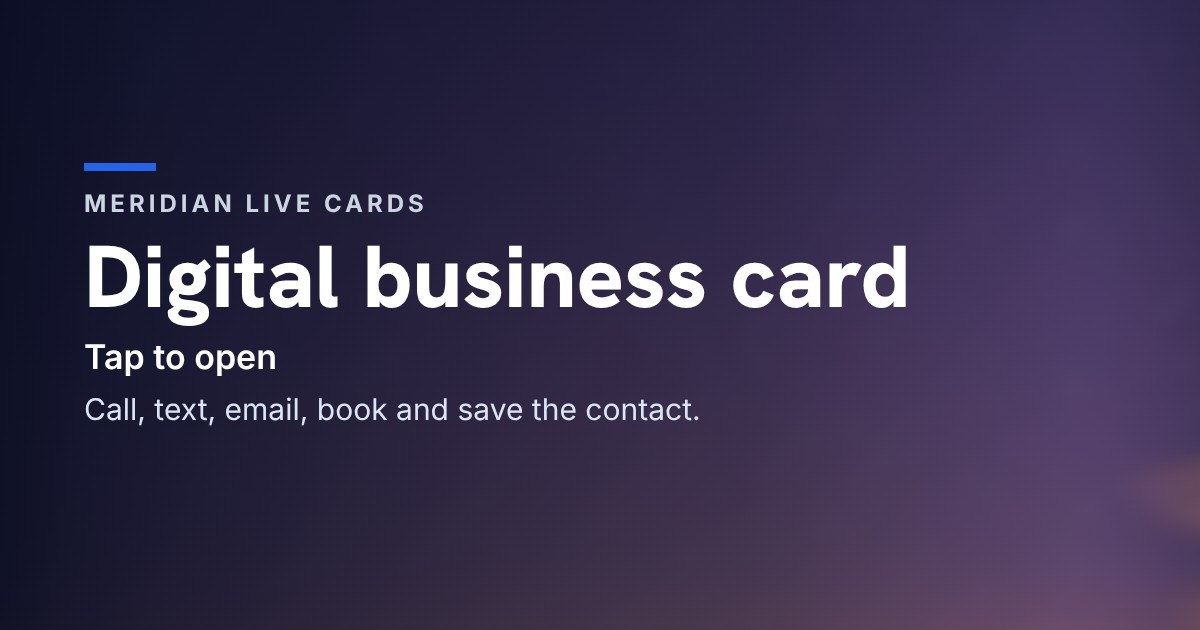
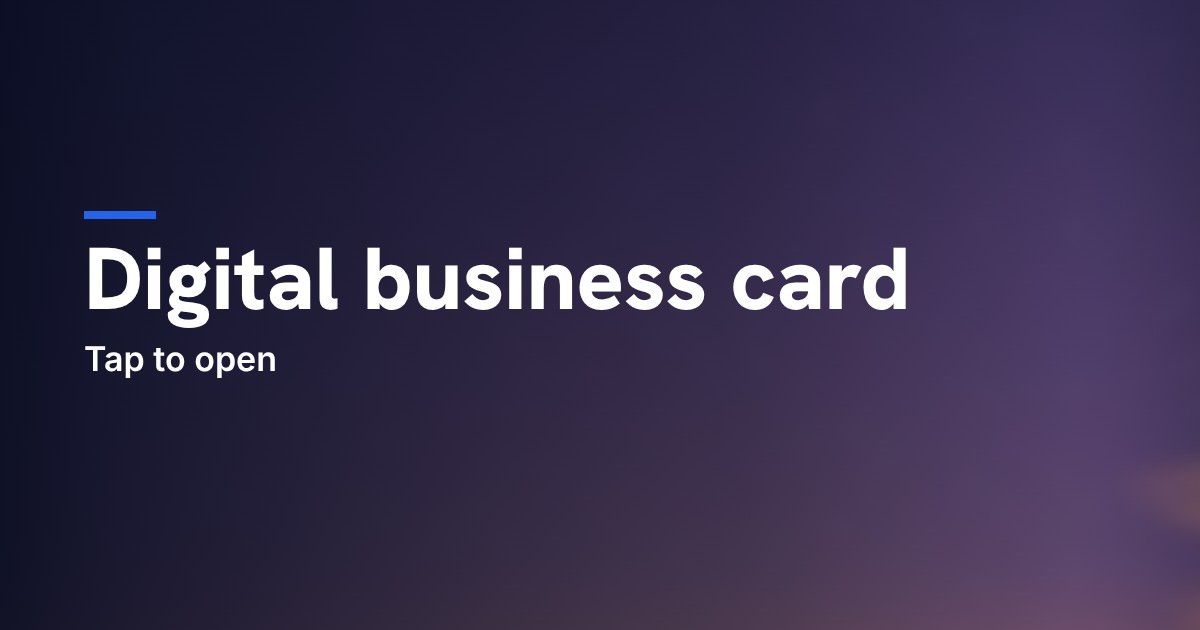
Live Cards: say everything once (clarity pass on the landing page, Studio and link preview)
- Landing page: each selling point appears once; shorter steps and trust lines
- Business name is typed once and stands in for the logo when there is none (the two logo text boxes are gone)
- Share tab lists only what is still missing; home screen steps only for the phone in hand
- Button color sits with the booking button; headshot and background uploads have distinct names
- Background hints say what to do in one line; link preview picture no longer repeats the business name
- Card: six round buttons and the pay row each stay on one row at 360 px
- preview test now 70 checks

Claude-Session: https://claude.ai/code/session_01Y6s8csMvrwVTtzrnppUzqx

diff --git a/public/studio/index.html b/public/studio/index.html
@@ -24,16 +24,14 @@
       <label>Business name<input type="text" id="f-company" data-k="company" maxlength="60" autocomplete="organization" placeholder="Rivers Realty"></label>
       <label>Title<input type="text" id="f-role" data-k="role" maxlength="60" autocomplete="organization-title" placeholder="Realtor"></label>
       <label>One line about what you do<input type="text" id="f-tagline" data-k="tagline" maxlength="90" placeholder="Homes in Katy and West Houston"></label>
-      <fieldset><legend>Your photo</legend>
+      <fieldset><legend>Photo of you</legend>
         <div class="row face-row"><img class="face-pv" id="face-pv" alt="" width="64" height="64" hidden><label class="ghost" for="f-photo"><svg class="i" viewBox="0 0 24 24" aria-hidden="true"><path d="M4 16v3a1 1 0 0 0 1 1h14a1 1 0 0 0 1-1v-3M16 8l-4-4-4 4M12 4v12"/></svg><span id="photo-word">Add your photo</span><input class="vh" type="file" id="f-photo" accept="image/*"></label><button type="button" class="ghost" id="photo-clear" aria-label="Remove photo" hidden>Remove</button></div>
-        <p class="note">People remember a face. Pick a clear photo with your face near the middle; it shows in a circle.</p>
+        <p class="note">A clear photo of your face. It shows in a circle.</p>
       </fieldset>
       <fieldset><legend>Logo</legend>
         <div class="row"><label class="ghost" for="f-logo"><svg class="i" viewBox="0 0 24 24" aria-hidden="true"><path d="M4 16v3a1 1 0 0 0 1 1h14a1 1 0 0 0 1-1v-3M16 8l-4-4-4 4M12 4v12"/></svg>Upload a logo<input class="vh" type="file" id="f-logo" accept="image/*"></label><button type="button" class="ghost" id="logo-clear" hidden>Remove logo</button></div>
-        <p class="note">Or type your business name below and it is set as a wordmark.</p>
-        <div class="row two"><label>Logo text, line 1<input type="text" id="f-l1" data-k="logo.line1" maxlength="24" placeholder="RIVERS"></label><label>Line 2<input type="text" id="f-l2" data-k="logo.line2" maxlength="24" placeholder="REALTY"></label></div>
+        <p class="note">No logo? Your business name is shown in its place.</p>
       </fieldset>
-      <fieldset><legend>Button color</legend><div class="swatches" id="swatches"></div><p class="note">Colors your booking button.</p></fieldset>
     </div>
     <div class="pane" role="tabpanel" id="p-buttons" aria-labelledby="t-buttons" hidden>
       <div class="pane-h"><h2>Buttons</h2><p>How people reach you. Leave a box empty and that button stays off your card.</p></div>
@@ -45,6 +43,7 @@
       <fieldset><legend>Booking</legend>
       <label>Booking link<input type="url" id="f-booking" data-k="actions.booking" maxlength="500" placeholder="https://calendly.com/you"></label>
       <label>Booking button words<input type="text" id="f-blabel" data-k="actions.bookingLabel" maxlength="34" placeholder="Book an appointment"></label>
+      <div class="lab" role="group" aria-labelledby="sw-l"><span id="sw-l">Booking button color</span><div class="swatches" id="swatches"></div></div>
       </fieldset>
       <fieldset><legend>Location and hours</legend>
       <label>Address<input type="text" id="f-addr" data-k="actions.address" maxlength="140" autocomplete="street-address" placeholder="123 Main St, Katy, TX 77494"></label>
@@ -61,30 +60,30 @@
       </fieldset>
       <fieldset><legend>Reviews</legend>
       <label>Review link<input type="url" id="f-review" data-k="actions.review" maxlength="500" placeholder="g.page/r/yourbusiness/review"></label>
-      <p class="note">Paste the link where customers leave you a review, such as your Google review link. It adds a "Leave a review" button.</p>
+      <p class="note">Paste the link where customers review you, such as your Google review link.</p>
       </fieldset>
       <fieldset><legend>Get paid</legend>
       <label>Cash App name<input type="text" id="f-cash" data-k="actions.cashapp" maxlength="60" autocapitalize="none" autocomplete="off" spellcheck="false" placeholder="$yourname"></label>
       <label>Venmo name<input type="text" id="f-venmo" data-k="actions.venmo" maxlength="60" autocapitalize="none" autocomplete="off" spellcheck="false" placeholder="@yourname"></label>
       <label>Zelle phone or email<input type="text" id="f-zelle" data-k="actions.zelle" maxlength="200" autocapitalize="none" autocomplete="off" spellcheck="false" placeholder="you@yourbusiness.com"></label>
-      <p class="note">Each one adds a "Pay with" button. The payment happens in that app, never on your card.</p>
+      <p class="note">People pay you in that app, never on your card.</p>
       </fieldset>
     </div>
     <div class="pane" role="tabpanel" id="p-bg" aria-labelledby="t-bg" hidden>
-      <div class="pane-h"><h2>Background</h2><p>What moves behind your card. Tap one to try it.</p></div>
-      <fieldset><legend>Your own photo or video</legend>
+      <div class="pane-h"><h2>Background</h2><p>Use your own photo or video, or tap a live background to try it.</p></div>
+      <fieldset><legend>Your own background</legend>
         <label class="drop" for="f-bg"><svg class="i" viewBox="0 0 24 24" aria-hidden="true"><path d="M4 16v3a1 1 0 0 0 1 1h14a1 1 0 0 0 1-1v-3M16 8l-4-4-4 4M12 4v12"/></svg><b>Choose from your library</b><span>A photo, or a video up to 30 seconds and 25 MB</span><input class="vh" type="file" id="f-bg" accept="image/*,video/*"></label>
         <div class="seg" id="own-opts" hidden><button type="button" id="fit-fill" aria-pressed="true">Fill the card</button><button type="button" id="fit-band" aria-pressed="false">Bottom of the card</button><label class="check switch"><input type="checkbox" id="f-sound" checked> Sound button</label></div>
-        <p class="note" id="bg-note" aria-live="polite">Photos are resized on your device before anything is saved.</p>
+        <p class="note" id="bg-note" aria-live="polite"></p>
       </fieldset>
       <fieldset><legend>Live backgrounds</legend><div id="scenes"></div></fieldset>
     </div>
     <div class="pane" role="tabpanel" id="p-publish" aria-labelledby="t-publish" hidden>
       <div class="pane-h"><h2>Share</h2><p>Publish your card and send it with one link or a QR code.</p></div>
-      <ul class="ready" id="ready" aria-label="Before you share"></ul>
+      <div class="todo" id="todo" hidden><h3>Before you share</h3><ul class="ready" id="ready"></ul></div>
       <figure class="linkpv" id="linkpv"><figcaption>How your link looks in a text or a post</figcaption>
         <div class="bubble"><canvas id="pv-img" width="1200" height="630" role="img" aria-label="The picture people see with your link"></canvas><div class="meta"><b id="pv-title"></b><span id="pv-site"></span></div></div></figure>
-      <div id="pub-off" class="callout" hidden><h3>Sharing is being set up</h3><p>Your card is saved on this device and you can keep editing it. Public links switch on when Live Cards launches.</p></div>
+      <div id="pub-off" class="callout" hidden><h3>Sharing is being set up</h3><p>Public links switch on when Live Cards launches. Until then, keep building your card here.</p></div>
       <form id="pub-email" hidden><h3>Sign in to share your card</h3><label>Email<input type="email" id="f-acct" autocomplete="email" required placeholder="you@yourbusiness.com"></label><div id="human" hidden></div><button class="btn" type="submit">Email me a sign-in code</button></form>
       <form id="pub-code" hidden><h3>Enter the code we emailed you</h3><label>6-digit code<input type="text" id="f-code" inputmode="numeric" autocomplete="one-time-code" maxlength="8" required></label><div class="row"><button class="btn" type="submit">Sign in</button><button type="button" class="ghost" id="code-back">Use a different email</button></div></form>
       <form id="pub-go" hidden><h3>Your card's link</h3><label><span id="site-prefix">meridianinterface.com/c/</span><input type="text" id="f-slug" maxlength="40" autocapitalize="none" autocomplete="off" spellcheck="false" required placeholder="jordan-rivers"></label>
@@ -95,7 +94,7 @@
       <div id="plan" hidden><h3>Your plan</h3><p class="note" id="plan-note"></p><label class="check" id="plan-made" hidden><input type="checkbox" id="f-made"> Hide the "Made with Meridian Live Cards" line on my card</label>
         <div class="row"><button type="button" class="ghost" id="plan-up" hidden>Upgrade my plan</button><button type="button" class="ghost" id="plan-manage" hidden>Manage my plan</button></div></div>
       <div id="acct" hidden><p class="note" id="acct-who"></p><div class="row"><button type="button" class="ghost" id="acct-out">Sign out</button><button type="button" class="ghost danger" id="acct-del">Delete my account and card</button></div></div>
-      <div class="install" id="install"><h3>Put it on your home screen</h3><p id="install-how">On iPhone: tap the Share button, then "Add to Home Screen". On Android: open the browser menu, then "Install app".</p><button type="button" class="ghost" id="install-btn" hidden>Install the app</button></div>
+      <div class="install" id="install"><h3>Put it on your home screen</h3><p id="install-how"></p><button type="button" class="ghost" id="install-btn" hidden>Install the app</button></div>
       <p class="note legal"><a href="/live-cards/terms/">Terms</a> and <a href="/live-cards/privacy/">Privacy</a></p>
     </div>
   </section>

diff --git a/public/live/studio.js b/public/live/studio.js
@@ -43,9 +43,11 @@ $('f-sound').addEventListener('change',e=>{draft.data.background.sound=e.target.
 const filesOf=d=>d?[d.background&&d.background.url,d.logo&&d.logo.url,d.photo&&d.photo.url,d.preview&&d.preview.url]:[];
 const cardLink=()=>(A.config.site||location.origin)+'/c/'+draft.slug;let pendingEmail='';
 function dirtyView(){const d=!!(draft.published&&draft.dirty);$('pub-update').hidden=!d;$('pub-dirty').hidden=!d}
+// Only what is still missing is listed. Nothing missing, nothing shown.
 function readyView(){const d=draft.data,a=d.actions||{},ul=$('ready');ul.textContent='';
-  const rows=[[!!(d.name||'').trim(),'Your name','t-details'],[!!(a.phone||a.email||a.booking||a.website),'At least one way to reach you','t-buttons'],[!!(draft.photoBlob||(d.photo||{}).url),'Your photo (optional)','t-details'],[!!(draft.logoBlob||d.logo.url||(d.logo.line1||'').trim()),'A logo or business name (optional)','t-details']];
-  for(const [ok,label,tab] of rows){const li=document.createElement('li'),b=document.createElement('button');li.dataset.ok=String(ok);b.type='button';b.textContent=label;b.addEventListener('click',()=>$(tab).click());li.appendChild(b);ul.appendChild(li)}}
+  const rows=[[!!(d.name||'').trim(),'Add your name','t-details'],[!!(a.phone||a.email||a.booking||a.website),'Add at least one way to reach you','t-buttons']].filter(r=>!r[0]);
+  for(const [,label,tab] of rows){const li=document.createElement('li'),b=document.createElement('button');li.dataset.ok='false';b.type='button';b.textContent=label;b.addEventListener('click',()=>$(tab).click());li.appendChild(b);ul.appendChild(li)}
+  $('todo').hidden=!rows.length}
 // ---------- link preview: the picture and title people see when the card's link is texted or posted.
 // Drawn here, on the device, from the same details as the card, and saved next to the card when it is published.
 const loadImg=src=>new Promise(res=>{if(!src)return res(null);const im=new Image();if(/^https:/.test(src))im.crossOrigin='anonymous';im.onload=()=>res(im);im.onerror=()=>res(null);im.src=src});
@@ -62,12 +64,11 @@ let pvRun=0;async function drawPreview(cv,solo){const run=solo?0:++pvRun,c=V.nor
   let g=x.createLinearGradient(0,0,W,0);g.addColorStop(0,'rgba(6,11,30,.9)');g.addColorStop(.62,'rgba(6,11,30,.62)');g.addColorStop(1,'rgba(6,11,30,.3)');x.fillStyle=g;x.fillRect(0,0,W,H);
   let left=84;if(face){const r=128,cx=left+r,cy=H/2;x.save();x.beginPath();x.arc(cx,cy,r+6,0,7);x.fillStyle='#fff';x.shadowColor='rgba(0,0,0,.5)';x.shadowBlur=40;x.shadowOffsetY=14;x.fill();x.restore();
     x.save();x.beginPath();x.arc(cx,cy,r,0,7);x.clip();cover(x,face,cx-r,cy-r,r*2,r*2);x.restore();left+=r*2+60}
-  const max=W-left-84,eyebrow=(c.company||[c.logo.line1,c.logo.line2].filter(Boolean).join(' ')).toUpperCase();
+  const max=W-left-84;
   let size=88;x.font='800 '+size+'px '+D;while(size>56&&x.measureText(c.name).width>max){size-=4;x.font='800 '+size+'px '+D}const nameL=lines(x,c.name,max,2);
   x.font='400 30px '+B;const tagL=c.tagline?lines(x,c.tagline,max,2):[];
-  const hgt=(eyebrow?46:0)+nameL.length*size*1.06+(c.role?54:0)+tagL.length*40+(tagL.length?10:0);let y=Math.round((H-hgt)/2);
+  const hgt=nameL.length*size*1.06+(c.role?54:0)+tagL.length*40+(tagL.length?10:0);let y=Math.round((H-hgt)/2);
   x.textBaseline='top';x.fillStyle=c.accent;x.fillRect(left,y-30,72,8);
-  if(eyebrow){x.font='700 24px '+B;try{x.letterSpacing='4px'}catch(e){}x.fillStyle='#cbd5e1';x.fillText(lines(x,eyebrow,max,1)[0],left,y);try{x.letterSpacing='0px'}catch(e){}y+=46}
   x.fillStyle='#fff';x.font='800 '+size+'px '+D;for(const l of nameL){x.fillText(l,left,y);y+=size*1.06}
   if(c.role){x.font='600 34px '+B;x.fillText(lines(x,c.role,max,1)[0],left,y+10);y+=54}
   if(tagL.length){y+=10;x.font='400 30px '+B;x.fillStyle='#dbe5f5';for(const l of tagL){x.fillText(l,left,y);y+=40}}
@@ -125,10 +126,12 @@ if(humanOn){$('human').hidden=false;const s=document.createElement('script');s.s
   s.onload=()=>{try{humanId=window.turnstile.render($('human'),{sitekey:A.config.humanCheck,callback:t=>{humanToken=t},'expired-callback':()=>{humanToken=''},'error-callback':()=>{humanToken=''}})}catch(e){$('human').textContent='The human check could not start. Reload the page.'}};
   s.onerror=()=>{$('human').textContent='The human check could not load. Check your connection and reload.'};document.head.appendChild(s)}
 // ---------- install
-let installEvt=null;window.addEventListener('beforeinstallprompt',e=>{e.preventDefault();installEvt=e;$('install-btn').hidden=false;$('install-how').hidden=true});
+let installEvt=null;window.addEventListener('beforeinstallprompt',e=>{e.preventDefault();installEvt=e;$('install').hidden=false;$('install-btn').hidden=false;$('install-how').hidden=true});
 $('install-btn').addEventListener('click',async()=>{if(!installEvt)return;installEvt.prompt();await installEvt.userChoice.catch(()=>{});installEvt=null;$('install-btn').hidden=true});
-if(window.matchMedia('(display-mode: standalone)').matches||navigator.standalone)$('install').hidden=true;
+{const ua=navigator.userAgent,ios=/iPhone|iPad|iPod/.test(ua)||(navigator.platform==='MacIntel'&&navigator.maxTouchPoints>1),android=/Android/.test(ua);
+  $('install-how').textContent=ios?'Tap the Share button in your browser, then "Add to Home Screen".':android?'Open the browser menu, then tap "Install app".':'';
+  if((!ios&&!android)||window.matchMedia('(display-mode: standalone)').matches||navigator.standalone)$('install').hidden=true}
 if('serviceWorker' in navigator&&location.protocol==='https:')navigator.serviceWorker.register('/studio/sw.js').catch(()=>{});
 // ---------- start
-A.local.get('draft').then(async d=>{if(d&&d.data){draft=Object.assign(draft,d);draft.data.logo=draft.data.logo||{};draft.data.actions=draft.data.actions||{};draft.data.background=draft.data.background||{type:'scene',id:'ocean'};draft.data.photo=draft.data.photo||{url:''};draft.data.preview=draft.data.preview||{url:''}}fill();paint();if(A.enabled&&A.auth.user)await adopt()});
+A.local.get('draft').then(async d=>{if(d&&d.data){draft=Object.assign(draft,d);draft.data.logo=draft.data.logo||{};draft.data.actions=draft.data.actions||{};draft.data.background=draft.data.background||{type:'scene',id:'ocean'};draft.data.photo=draft.data.photo||{url:''};draft.data.preview=draft.data.preview||{url:''};{const l=draft.data.logo;if(!l.mark&&(l.line1||l.line2)){if(!draft.data.company)draft.data.company=[l.line1,l.line2].filter(Boolean).join(' ');l.line1=l.line2=''}}}fill();paint();if(A.enabled&&A.auth.user)await adopt()});
 })();

diff --git a/public/live/engine.js b/public/live/engine.js
@@ -543,20 +543,20 @@ function init(phone){
     GL.uniform3f(glU.uPtr,P.x,P.y,P.on);GL.uniform3fv(glU.uTap,taps);GL.drawArrays(GL.TRIANGLES,0,3)}
   // Theme list for the picker
   const THEMES=[
-    ...(glOK?[{col:'Signature',id:'ocean',name:'Ocean sunrise',gl:1,draw:(t,n)=>drawOcean(t,n),start:()=>{oceanStart=performance.now()},tap:n=>{if(P.ty<.795)glFlare=n},hint:'This one is computed pixel by pixel on your device: real-looking water, clouds and light. The sun rises over the sea in about 20 seconds. Move your finger to look around; tap the water for ripples or the sky for a flash of sunlight.'}]:[]),
-    {col:'Nature and outdoors',id:'sunrise',name:'Sunrise',canvas:1,draw:(t,n)=>drawSunrise(t,n),start:()=>{sunStart=performance.now()},hint:'The sun rises over misty mountains and a lake. Move your finger and the scene shifts; tap the sky for a burst of sunlight or the water for a ripple. Tap Sunrise to watch it again.'},
-    {col:'Nature and outdoors',id:'bike',name:'Mountain bike',canvas:1,draw:(t,n)=>drawBike(t,n),hint:'A rider pedals a ridge trail against a huge setting sun, kicking up dust. Tap the background to make them jump.'},
-    {col:'Water',id:'sail',name:'Sailing',canvas:1,draw:(t,n)=>drawSail(t,n),hint:'A sailboat rides the swell at golden hour while the sun sparkles on the water. Move your finger and the waves lift toward it; tap the sea for a ripple.'},
-    {col:'Water',id:'ski',name:'Jet ski',canvas:1,draw:(t,n)=>drawSki(t,n),hint:'A jet ski skims a turquoise bay past a palm island, throwing spray. The waves lift toward your finger; tap to make it jump.'},
-    {col:'Sky and space',id:'rocket',name:'Rocket launch',canvas:1,draw:(t,n)=>drawRocket(t,n),start:rocketStart,tap:rocketTap,hint:'Steam builds on the pad, the engines light, and the rocket climbs right through the card. It repeats on its own. Tap the background to launch early.'},
-    {col:'Sky and space',id:'jets',name:'Jets',canvas:1,draw:(t,n)=>drawJets(t,n),start:()=>{jetT0=performance.now()-600;jetExtra=-1e9},tap:n=>{jetExtra=n},hint:'A formation of jets climbs across the sky leaving white trails. Tap to call a second pass from the other side.'},
-    {col:'Motorsport',id:'drag',name:'Drag race',canvas:1,draw:(t,n)=>drawDrag(t,n),start:dragStart,tap:dragTap,hint:'The lights count down, then two cars launch off the line in a cloud of tire smoke. It repeats on its own. Tap to drop the green light early.'},
-    {col:'Motorsport',id:'ride',name:'Night ride',canvas:1,draw:(t,n)=>drawRide(t,n),hint:'A motorcycle leans through a winding road at dusk. Move your finger left or right and the rider leans with you.'},
-    {col:'Snow and mountain',id:'snow',name:'Snowboarding',canvas:1,draw:(t,n)=>drawSnow(t,n),hint:'A snowboarder carves down a sunny slope with powder spraying and snow falling. Tap to make them jump and spin.'},
-    {col:'Spirit',id:'aurora',name:'Aurora',canvas:1,draw:(t,n)=>drawAurora(t,n),hint:'Northern lights drift over the mountains while a seated figure breathes with a slow glow. The lights brighten near your finger; tap to send out a ring of light.'},
-    {col:'Fun and party',id:'dance',name:'Dance party',canvas:1,draw:(t,n)=>drawDance(t,n),hint:'Stage lights sweep to the beat over a glowing floor and a crowd with their hands up. The lights lean toward your finger; tap for a confetti burst.'},
-    {col:'Fun and party',id:'fire',name:'Fireworks',canvas:1,draw:(t,n)=>drawFire(t,n),hint:'Fireworks rise and burst over a city skyline. Tap anywhere to set one off right under your finger.'},
-    {col:'Classic',id:'ribbon',name:'Blue ribbon',canvas:1,draw:t=>drawRibbon(t),hint:'The waves drift on their own. Move your mouse or finger over the card and they rise toward you; tap the background to send a ripple.'}];
+    ...(glOK?[{col:'Signature',id:'ocean',name:'Ocean sunrise',gl:1,draw:(t,n)=>drawOcean(t,n),start:()=>{oceanStart=performance.now()},tap:n=>{if(P.ty<.795)glFlare=n},hint:'Move your finger to look around. Tap the water for ripples.'}]:[]),
+    {col:'Nature and outdoors',id:'sunrise',name:'Sunrise',canvas:1,draw:(t,n)=>drawSunrise(t,n),start:()=>{sunStart=performance.now()},hint:'Tap the sky for a burst of sunlight, or the water for a ripple.'},
+    {col:'Nature and outdoors',id:'bike',name:'Mountain bike',canvas:1,draw:(t,n)=>drawBike(t,n),hint:'Tap the background to make the rider jump.'},
+    {col:'Water',id:'sail',name:'Sailing',canvas:1,draw:(t,n)=>drawSail(t,n),hint:'The waves lift toward your finger. Tap the sea for a ripple.'},
+    {col:'Water',id:'ski',name:'Jet ski',canvas:1,draw:(t,n)=>drawSki(t,n),hint:'The waves lift toward your finger. Tap to make the jet ski jump.'},
+    {col:'Sky and space',id:'rocket',name:'Rocket launch',canvas:1,draw:(t,n)=>drawRocket(t,n),start:rocketStart,tap:rocketTap,hint:'Tap the background to launch the rocket early.'},
+    {col:'Sky and space',id:'jets',name:'Jets',canvas:1,draw:(t,n)=>drawJets(t,n),start:()=>{jetT0=performance.now()-600;jetExtra=-1e9},tap:n=>{jetExtra=n},hint:'Tap to call a second pass of jets.'},
+    {col:'Motorsport',id:'drag',name:'Drag race',canvas:1,draw:(t,n)=>drawDrag(t,n),start:dragStart,tap:dragTap,hint:'Tap to drop the green light early.'},
+    {col:'Motorsport',id:'ride',name:'Night ride',canvas:1,draw:(t,n)=>drawRide(t,n),hint:'Move your finger left or right and the rider leans with you.'},
+    {col:'Snow and mountain',id:'snow',name:'Snowboarding',canvas:1,draw:(t,n)=>drawSnow(t,n),hint:'Tap to make the snowboarder jump and spin.'},
+    {col:'Spirit',id:'aurora',name:'Aurora',canvas:1,draw:(t,n)=>drawAurora(t,n),hint:'The lights brighten near your finger. Tap to send out a ring of light.'},
+    {col:'Fun and party',id:'dance',name:'Dance party',canvas:1,draw:(t,n)=>drawDance(t,n),hint:'The lights lean toward your finger. Tap for confetti.'},
+    {col:'Fun and party',id:'fire',name:'Fireworks',canvas:1,draw:(t,n)=>drawFire(t,n),hint:'Tap anywhere to set off a firework.'},
+    {col:'Classic',id:'ribbon',name:'Blue ribbon',canvas:1,draw:t=>drawRibbon(t),hint:'Move over the card and the waves rise. Tap to send a ripple.'}];
   const THEME=Object.fromEntries(THEMES.map(x=>[x.id,x]));
   // Living photo: today's owned ribbon picture, with depth that follows the finger and a slow light passing along the lines.
   function drawPhoto(t){

diff --git a/public/live-cards/index.html b/public/live-cards/index.html
@@ -8,42 +8,40 @@
 <section class="hero">
   <div class="pitch">
     <h1>The business card that moves.</h1>
-    <p class="lede">A digital business card with a live background that reacts to touch. People open one link or scan one code, then call, email, book or follow you in a tap.</p>
+    <p class="lede">A digital business card with a live background. People open it from one link or QR code, with nothing to install, and reach you in one tap.</p>
     <div class="cta-row"><a class="btn" href="/studio/">Make your card<svg class="i" viewBox="0 0 24 24" aria-hidden="true"><path d="M5 12h14M13 6l6 6-6 6"/></svg></a><a class="ghost" href="/?book=web_design">Book a free 1-on-1</a></div>
-    <ul class="facts"><li><svg class="i" viewBox="0 0 24 24" aria-hidden="true"><path d="M20 6 9 17l-5-5"/></svg>Nothing for your clients to install</li><li><svg class="i" viewBox="0 0 24 24" aria-hidden="true"><path d="M20 6 9 17l-5-5"/></svg>Opens from a link or a QR code</li><li><svg class="i" viewBox="0 0 24 24" aria-hidden="true"><path d="M20 6 9 17l-5-5"/></svg>Fourteen live backgrounds, or your own photo or video</li></ul>
   </div>
   <div class="demo">
     <div class="device"><div class="lc-phone" id="lc"></div></div>
     <p class="hint" id="hint" aria-live="polite"></p>
     <h2 class="strip-h" id="pick-h">Try a background</h2>
     <div class="seg" id="seg" role="group" aria-labelledby="pick-h"></div>
-    <p class="sample">This is a working card. The sample shows Otis Williams of Meridian Interface; yours carries your name, logo, buttons and colors.</p>
+    <p class="sample">A working sample. Yours shows your own name, photo, logo and buttons.</p>
   </div>
 </section>
 <section class="band" aria-labelledby="how-h"><h2 id="how-h">Ready in three steps</h2>
   <ol class="steps">
-    <li><b>Add your details</b><span>Your name, title and logo, and the buttons you want: call, text, email, booking, website and social.</span></li>
-    <li><b>Choose a background</b><span>Pick a live scene from the collection, or use a photo or video from your phone.</span></li>
-    <li><b>Share one link</b><span>Send the link, show the QR code, or keep the card on your home screen for the next handshake.</span></li>
+    <li><b>Add your details</b><span>Your name, your photo and the buttons you want.</span></li>
+    <li><b>Choose a background</b><span>Pick one of fourteen live backgrounds.</span></li>
+    <li><b>Share it</b><span>Send your link or show your QR code.</span></li>
   </ol>
 </section>
 <section class="band" aria-labelledby="why-h"><h2 id="why-h">A card people remember</h2>
-  <div class="points">
-    <div><b>It moves</b><p>A sunrise over open water, a rocket launch, race day, northern lights. The background is alive the moment the card opens.</p></div>
-    <div><b>It reacts to touch</b><p>Waves lift toward a finger, fireworks pop where you tap, the rocket launches early. People remember a card they played with.</p></div>
-    <div><b>It can be your own video</b><p>Use your ad, your product or your storefront. It plays behind your card, with sound when a client taps the speaker.</p></div>
-    <div><b>It does the job</b><p>Call, text, email, book, directions, reviews and ways to pay, one tap each. Save to contacts adds you, and your photo, to their phone.</p></div>
+  <div class="points three">
+    <div><b>It reacts to touch</b><p>Waves lift toward a finger, fireworks pop where you tap, a rocket launches early. People remember a card they played with.</p></div>
+    <div><b>Your own video works too</b><p>Your ad, your product or your storefront plays behind your card, with sound when a client taps the speaker.</p></div>
+    <div><b>Every button is one tap</b><p>Call, text, email, book, directions, reviews and ways to pay. Save to contacts adds you, and your photo, to their phone.</p></div>
   </div>
 </section>
-<section class="band" aria-labelledby="trust-h"><h2 id="trust-h">Built with care for your information</h2>
+<section class="band" aria-labelledby="trust-h"><h2 id="trust-h">Your information stays yours</h2>
   <div class="points">
-    <div><b>Only you can change your card</b><p>You sign in with a one-time code sent to your email. There is no password to steal or forget.</p></div>
-    <div><b>No tracking on your card</b><p>Card pages load no advertising or analytics scripts. Your clients see your card and nothing else.</p></div>
-    <div><b>Your card shows what you choose</b><p>Nothing is public until you publish, and a card opens only for someone who has its link.</p></div>
-    <div><b>Leave whenever you like</b><p>Take your card offline or delete your account, your card and your files from the app at any time.</p></div>
+    <div><b>Only you can change your card</b><p>You sign in with a code sent to your email. There is no password to steal or forget.</p></div>
+    <div><b>No ads and no tracking</b><p>Your clients see your card and nothing else.</p></div>
+    <div><b>Private until you publish</b><p>After that, your card opens only for someone who has its link.</p></div>
+    <div><b>Leave whenever you like</b><p>Take your card offline or delete everything, from the app, at any time.</p></div>
   </div>
 </section>
-<section class="close" aria-labelledby="close-h"><h2 id="close-h">Make yours in a few minutes</h2><p class="lede">Open the Studio on your phone, add your details, pick a background and share your link. Or book a free 1-on-1 and we will build it with you.</p>
+<section class="close" aria-labelledby="close-h"><h2 id="close-h">Make yours in a few minutes</h2><p class="lede">Or book a free 1-on-1 and we will build it with you.</p>
   <div class="cta-row"><a class="btn" href="/studio/">Open the Studio<svg class="i" viewBox="0 0 24 24" aria-hidden="true"><path d="M5 12h14M13 6l6 6-6 6"/></svg></a><a class="ghost" href="/?book=web_design">Book a free 1-on-1</a></div>
   <p class="reach"><a href="tel:+12818829198">281-882-9198</a> &nbsp;·&nbsp; <a href="mailto:otis@meridianinterface.com">otis@meridianinterface.com</a></p></section>
 </main>

diff --git a/public/live/card.css b/public/live/card.css
@@ -37,6 +37,9 @@
 .has-face .lc-name{margin-top:clamp(12px,4.2cqw,18px)}
 .lc-hours{margin-top:8px;display:inline-flex;align-items:center;gap:6px;font:500 clamp(12px,3.4cqw,13.5px)/1.3 var(--lc-body);color:#dbe5f5}
 .lc-hours svg{flex:none;width:14px;height:14px;stroke:currentColor}
+.lc-logo b,.lc-logo span{text-transform:uppercase;max-width:88cqw;overflow-wrap:anywhere}
+.lc-logo.long b{font-size:clamp(12px,3.7cqw,15px);letter-spacing:.14em;padding-left:.14em}
+.lc-logo.long span{letter-spacing:.2em;padding-left:.2em}
 .lc-logo b,.lc-logo span,.lc-name,.lc-role,.lc-tag,.lc-hours,.lc-pay-l,.lc-note{text-shadow:0 2px 14px rgba(0,0,0,.55)}
 .lc-name{margin:clamp(14px,6cqw,26px) 0 0;font:800 clamp(24px,8.6cqw,36px)/1.05 var(--lc-display);overflow-wrap:anywhere;color:#fff;letter-spacing:-.01em;text-wrap:balance}
 .lc-role{margin-top:8px;font:700 clamp(14px,4.1cqw,17px) var(--lc-body)}
@@ -46,7 +49,7 @@
   font:600 clamp(15px,4.2cqw,17px) var(--lc-body);box-shadow:0 10px 24px -10px rgba(0,0,0,.55);border:0;cursor:pointer;width:100%}
 .lc-pill svg{position:absolute;left:20px;width:20px;height:20px;stroke:var(--lc-ink)}
 .lc-pill.book{background:var(--lc-acc);color:#fff}.lc-pill.book svg{stroke:#fff}
-.lc-art{flex:1 0 auto;position:relative;min-height:120px;padding:clamp(20px,6.4cqw,30px) 4.6cqw 52px;display:flex;flex-direction:column;align-items:center}
+.lc-art{flex:1 0 auto;position:relative;min-height:120px;padding:clamp(20px,6.4cqw,30px) 3cqw 52px;display:flex;flex-direction:column;align-items:center}
 .lc-dots{display:flex;flex-wrap:wrap;justify-content:center;gap:clamp(10px,4.2cqw,20px);max-width:100%}
 /* six or more round buttons sit closer, so six still fit one row on a 360 px phone */
 .lc-dots:has(>:nth-child(6)){gap:clamp(6px,2.6cqw,14px)}
@@ -57,7 +60,9 @@
 .lc-chip{display:inline-flex;align-items:center;gap:7px;min-height:44px;padding:0 16px;border-radius:999px;border:1px solid rgba(255,255,255,.34);background:rgba(8,14,34,.56);
   -webkit-backdrop-filter:blur(10px);backdrop-filter:blur(10px);color:#fff;text-decoration:none;font:600 14px var(--lc-body);cursor:pointer;white-space:nowrap}
 .lc-chip svg{width:16px;height:16px;stroke:#fff}
-.lc-pay-l{font:600 11.5px/1 var(--lc-body);letter-spacing:.08em;text-transform:uppercase;color:#dbe5f5;margin-right:2px}
+/* label and three pay buttons stay on one row down to a 360 px phone */
+.lc-pay{gap:6px}.lc-pay .lc-chip{padding:0 13px}
+.lc-pay-l{font:600 11.5px/1 var(--lc-body);letter-spacing:.06em;text-transform:uppercase;color:#dbe5f5;margin-right:2px}
 .lc-note{margin:10px 0 0;padding:10px 14px;border-radius:12px;background:rgba(8,14,34,.72);font:500 13px/1.45 var(--lc-body);color:#fff;text-align:center;overflow-wrap:anywhere;max-width:100%}
 .lc-dot{width:46px;height:46px;border-radius:50%;background:#fff;display:grid;place-items:center;box-shadow:0 6px 16px rgba(0,0,0,.35);border:0;cursor:pointer;padding:0}
 .lc-dot svg{width:21px;height:21px;stroke:var(--lc-ink)}

diff --git a/public/live/card-view.js b/public/live/card-view.js
@@ -19,6 +19,8 @@ const emailOk=e=>{e=clean(e,200);return /^[^\s@]+@[^\s@]+\.[^\s@]+$/.test(e)?e:'
 const color=c=>/^#[0-9a-f]{6}$/i.test(c||'')?c:'#2563eb';
 /** A payment name: letters, numbers, dash and underscore only. A pasted profile link, a leading $ or @ are trimmed off first. */
 const handle=(v,re)=>{v=clean(v,120).replace(/^https?:\/\/(?:www\.|account\.)?(?:venmo\.com\/(?:u\/)?|cash\.app\/)/i,'').replace(/^[@$]/,'').replace(/[\/?#].*$/,'');return re.test(v)?v:''};
+/** With no logo, the business name stands in for it, set on one or two balanced lines. */
+function wordmark(name){const w=name.split(/\s+/).filter(Boolean);if(w.length<2)return[name,''];let best=1,gap=1e9;for(let i=1;i<w.length;i++){const g=Math.abs(w.slice(0,i).join(' ').length-w.slice(i).join(' ').length);if(g<gap){gap=g;best=i}}return[w.slice(0,best).join(' '),w.slice(best).join(' ')]}
 const mapLink=a=>'https://www.google.com/maps/dir/?api=1&destination='+encodeURIComponent(a);
 /** A picture or video may only come from three places: this device (blob:), this site's own sample and brand folders, or a client's own folder in the Live Cards file store. Anything else is dropped. */
 const CFG=window.LIVE_CARDS_CONFIG||{},STORE=((/^https:\/\/[a-z0-9.-]+$/.test(CFG.url||'')?CFG.url:'https://glzodwhyavexpuusbqjy.supabase.co')+'/storage/v1/object/public/'+(/^[a-z0-9-]{3,40}$/.test(CFG.bucket||'')?CFG.bucket:'live-cards')+'/').replace(/[.]/g,'\\.');
@@ -48,7 +50,7 @@ function render(phone,data,opts){opts=opts||{};const c=normalize(data);let card=
   const E=(tag,cls,txt)=>{const e=document.createElement(tag);if(cls)e.className=cls;if(txt!=null)e.textContent=txt;return e};
   const head=E('header','lc-content'),logo=E('div','lc-logo');
   if(c.logo.url){const im=E('img',c.logo.mark?'mark':'');im.src=c.logo.url;im.alt=c.company?c.company+' logo':'';logo.appendChild(im)}
-  if(c.logo.line1){const wm=E('div');wm.append(E('b','',c.logo.line1));if(c.logo.line2)wm.append(E('span','',c.logo.line2));logo.appendChild(wm)}
+  {const [l1,l2]=c.logo.line1?[c.logo.line1,c.logo.line2]:c.logo.url?['','']:wordmark(c.company);if(l1){const wm=E('div');wm.append(E('b','',l1));if(l2)wm.append(E('span','',l2));if(Math.max(l1.length,l2.length)>16)logo.classList.add('long');logo.appendChild(wm)}}
   head.append(logo);if(c.photo.url){const f=E('img','lc-face');f.src=c.photo.url;f.alt='Photo of '+c.name;f.width=f.height=112;head.classList.add('has-face');head.append(f)}
   head.append(E('h1','lc-name',c.name));if(c.role)head.append(E('div','lc-role',c.role));if(c.tagline)head.append(E('div','lc-tag',c.tagline));
   if(c.hours){const h=E('div','lc-hours');h.innerHTML=svg('clock');h.append(c.hours);head.append(h)}

diff --git a/public/live/landing.js b/public/live/landing.js
@@ -3,8 +3,8 @@
 const phone=document.getElementById('lc'),engine=window.LiveCard.init(phone),hint=document.getElementById('hint'),seg=document.getElementById('seg');
 const SAMPLE={name:'Otis Williams',company:'Meridian Interface',role:'AI Architect',tagline:'Commercial ads and websites for your business',logo:{url:'/brand/meridian-mark.png',mark:true,line1:'MERIDIAN',line2:'INTERFACE'},
   actions:{phone:'+12818829198',text:true,email:'otis@meridianinterface.com',booking:'https://meridianinterface.com/?book=web_design',bookingLabel:'Book a 1-on-1 appointment',website:'https://meridianinterface.com/',facebook:'https://www.facebook.com/profile.php?id=61596523703192',instagram:'https://www.instagram.com/meridianinterface/'},showMade:false};
-const VIDEOS=[{id:'v-ad',name:'Animated ad',col:'Your own video',hint:'This background is a video. Yours can be your own ad or footage. Tap the speaker at the top right of the card to hear it.',bg:{type:'video',url:'/live/samples/bg-pcflat.mp4',fit:'band',bg:'#2c344c'}},
-  {id:'v-reel',name:'Product reel',col:'Your own video',hint:'A product video playing behind the card. Yours can show your own product. Tap the speaker to hear it.',bg:{type:'video',url:'/live/samples/bg-laptop.mp4',fit:'band',bg:'#000000'}}];
+const VIDEOS=[{id:'v-ad',name:'Animated ad',col:'Your own video',hint:'This background is a video. Tap the speaker on the card to hear it.',bg:{type:'video',url:'/live/samples/bg-pcflat.mp4',fit:'band',bg:'#2c344c'}},
+  {id:'v-reel',name:'Product reel',col:'Your own video',hint:'This background is a video. Tap the speaker on the card to hear it.',bg:{type:'video',url:'/live/samples/bg-laptop.mp4',fit:'band',bg:'#000000'}}];
 const sig=engine.scenes.filter(s=>s.col==='Signature'),rest=engine.scenes.filter(s=>s.col!=='Signature'),list=[...sig,...VIDEOS,...rest];
 function pick(item,scroll){window.LiveCardView.render(phone,Object.assign({},SAMPLE,{background:item.bg||{type:'scene',id:item.id}}),{engine});hint.textContent=item.hint||'';
   seg.querySelectorAll('button').forEach(b=>b.setAttribute('aria-pressed',String(b.dataset.id===item.id)));

diff --git a/public/live/studio.css b/public/live/studio.css
@@ -121,3 +121,6 @@ form label{width:100%}
 .linkpv .meta{display:grid;gap:2px;padding:10px 14px 12px}
 .linkpv .meta b{font-weight:600;font-size:14.5px;line-height:1.3;color:var(--ink);overflow:hidden;text-overflow:ellipsis;white-space:nowrap}
 .linkpv .meta span{font-size:12.5px;color:var(--faint)}
+.lab{display:grid;gap:10px;font:600 13.5px/1.3 var(--body);color:var(--ink)}
+.todo{display:grid;gap:8px}
+.note:empty{display:none}

diff --git a/public/live/landing.css b/public/live/landing.css
@@ -53,6 +53,7 @@
   .steps li{grid-template-columns:1fr}.steps li::before{grid-row:auto;margin-bottom:10px}.steps b{padding-top:0}
   .points{grid-template-columns:1fr 1fr;gap:0 56px}
   .points div:nth-child(2){border-top:0;padding-top:0}
+  .points.three{grid-template-columns:repeat(3,1fr);gap:0 40px}.points.three div{border-top:0;padding-top:0}
   .close{padding:72px 24px}
 }
 

diff --git a/docs/LIVE-CARDS.md b/docs/LIVE-CARDS.md
@@ -14,7 +14,7 @@ Shared pieces: `engine.js` (all backgrounds, one card per page), `card-view.js` 
 All scripts are separate files because the site's security policy forbids inline scripts.
 
 ## What a card can hold (added 25 Nov 2026: headshot, more buttons, link preview)
-- **Top:** logo or wordmark, a headshot (cut to a 640 px square on the device, shown in a circle; the logo steps back to one small row), name, title, one line, hours.
+- **Top:** logo (or, with no logo, the business name set as a wordmark), a headshot (cut to a 640 px square on the device, shown in a circle; the logo steps back to one small row), name, title, one line, hours.
 - **Main buttons:** Call, Email, Book. **Round buttons:** Text, Website, Directions (from an address, opens the map), Save to contacts, five social sites.
 - **Labelled buttons:** Leave a review (any review link), and Pay with Cash App, Venmo, Zelle. Zelle has no payment link, so its button shows where to send and copies it.
 - **Save to contacts** now carries the address and, on the public card, the headshot.
@@ -22,7 +22,7 @@ All scripts are separate files because the site's security policy forbids inline
 
 ## Link preview
 When a link is texted or posted, the phone or site reads the page's title and picture without running scripts, so every card link used to look the same.
-- The Studio draws a 1200 x 630 picture from the card (background, headshot, name, title, line) on the device, shows it on the Share tab, and at publish saves it beside the card as `og-<id>.jpg`.
+- The Studio draws a 1200 x 630 picture from the card (background, headshot, name, title, line; the business name is in the link's title beneath it) on the device, shows it on the Share tab, and at publish saves it beside the card as `og-<id>.jpg`.
 - `api/lc-card.js` (a Vercel Function in plain JavaScript, so the site's TypeScript settings cannot break its build; `vercel.json` sends `/c/:slug` to it) returns the same card page with that card's title, line and picture written into the top. It reads `public/live/config.js` for the switch, asks the service the one public question `lc_get_card`, holds no secret and writes nothing. Service off, slow, broken, card missing or taken down: it returns exactly `public/c/index.html`.
 - The function repeats the page and the security headers; `tools/live-cards-preview-test.cjs` fails if either drifts from `public/c/index.html` or `vercel.json`.
 - `public/live/og-default.jpg` is the picture for a link with no card behind it.
@@ -51,7 +51,7 @@ The Studio portal has a Live Cards tab (`src/components/OwnerLiveCards.tsx`): re
 ## Tests (all in `tools/`, all against stand-ins; nothing real is contacted)
 Build, serve on port 4799 (`npx vite preview --port 4799`), then:
 - `live-cards-security-test.cjs`: the whole client journey under the real headers, 36 checks.
-- `live-cards-preview-test.cjs`: the link page function against hostile and broken answers (no browser), then headshot, new buttons, link preview, contact file and file limit in a browser, 62 checks.
+- `live-cards-preview-test.cjs`: the link page function against hostile and broken answers (no browser), then headshot, new buttons, link preview, contact file, file limit and the "say it once" rules in a browser, 70 checks.
 - `lc-test-kit.cjs` is shared by those two: the service stand-in (it mirrors the database rules; change both together) and the real page function.
 - `live-cards-plans-test.cjs`: plans, the human check, the own-address switch, 19 checks.
 - `live-cards-owner-test.cjs`: the owner desk on desktop and phone, 24 checks.

diff --git a/docs/LIVE-CARDS-DESIGN.md b/docs/LIVE-CARDS-DESIGN.md
@@ -61,6 +61,15 @@ Order, top to bottom: logo, headshot, name, title, line, hours; the three main p
 - **No brand logos are drawn** for payment apps; the chips use the app's name in text.
 - Every button is at least 44 px tall. Six round buttons fit one row at phone width.
 
+## Say it once (Otis, 25 Nov 2026: "no redundant information... nothing confusing")
+- **One fact, one place.** The business name is typed once; with no logo it stands in for the logo on the card (the two "logo text" boxes are gone). The button color sits with the booking button it colors.
+- **Show only what needs doing.** The Share tab lists what is missing and nothing else; when nothing is missing the list is gone. Home screen steps show only for the phone in hand.
+- **A note earns its line.** One sentence, and only where the box alone would leave someone guessing.
+- **Hints say what to do,** not what the picture is ("Tap the background to launch the rocket early.").
+- **Two different photos get two different names:** "Photo of you" (the headshot) and "Your own background".
+- **Landing page:** each selling point appears once. The first screen says what it is; three steps say how; three points say why; four short lines cover trust.
+- **Link preview:** the picture carries the face, name, title and line. The business name is in the link's title right under it, so it is not drawn into the picture as well.
+
 ## Rules that came from the brand skill
 The mark is the real file beside live text. The lockup file is never placed on a dark ground. The accent blue never touches the mark. Fonts are self-hosted.
 
